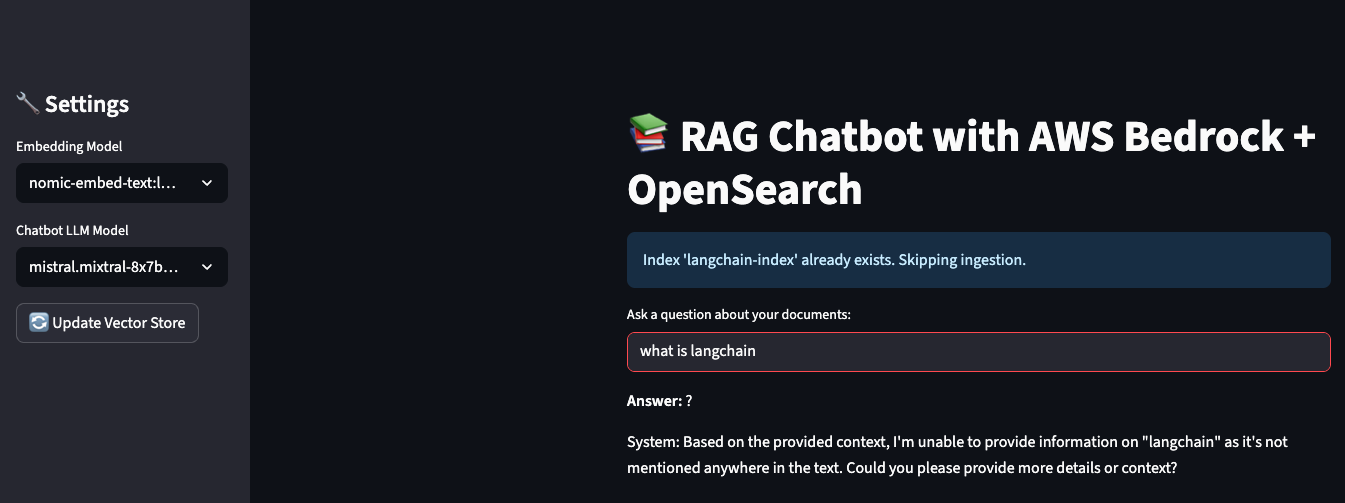
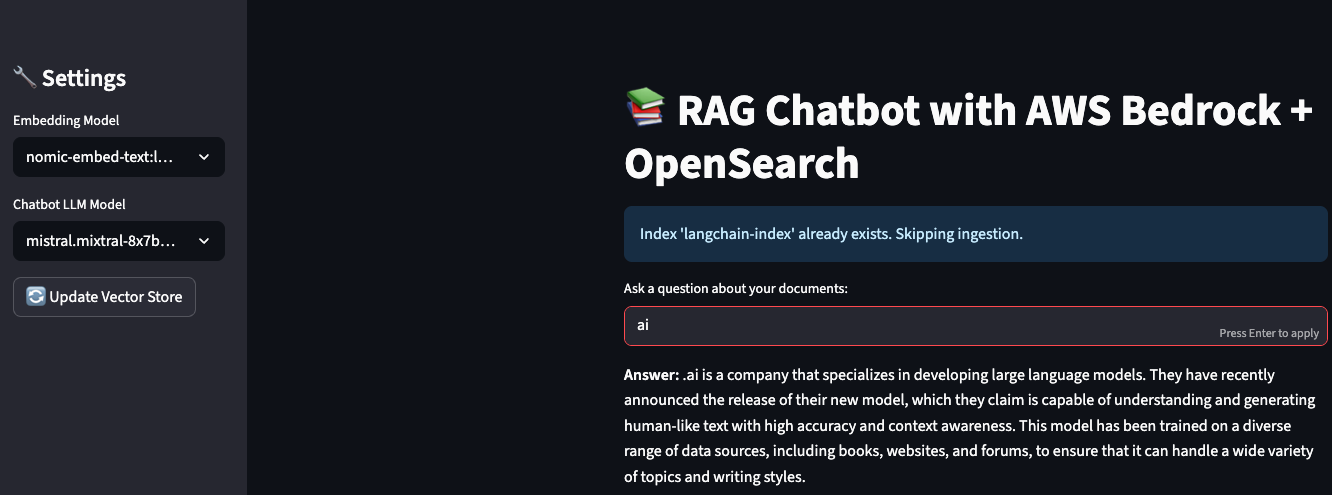
update reame.md, add new models into streamlit, change chat model to misteral

Changed region(s): [[0.4617, 0.1818, 1.0, 0.8182], [0.0, 0.1212, 0.1847, 0.6667], [0.4617, 0.8485, 0.985, 1.0]]

diff --git a/utils/Populate.py b/utils/Populate.py
@@ -9,6 +9,7 @@ class OpensearchManager:
     """
     A class to manage the OpenSearch client connection and vector operations.
     """
+
     def __init__(self, embedding_dim=768):
         load_dotenv()
         self._index_name = os.getenv("OPENSEARCH-INDEX-NAME")
@@ -18,23 +19,21 @@ class OpensearchManager:
     def create_index_if_not_exists(self, index_name):
         if not self._client.indices.exists(index=index_name):
             index_body = {
-                "settings": {
-                    "index": {
-                        "knn": True
-                    }
-                },
+                "settings": {"index": {"knn": True}},
                 "mappings": {
                     "properties": {
                         "text": {"type": "text"},
                         "vector_field": {
                             "type": "knn_vector",
                             "dimension": self._embedding_dimension,
-                        }
+                        },
                     }
-                }
+                },
             }
             self._client.indices.create(index=index_name, body=index_body)
-            print(f"Index '{index_name}' created with dimension {self._embedding_dimension}.")
+            print(
+                f"Index '{index_name}' created with dimension {self._embedding_dimension}."
+            )
         else:
             print(f"Index '{index_name}' already exists.")
 
@@ -42,30 +41,39 @@ class OpensearchManager:
         for doc in documents:
             try:
                 if not doc.page_content.strip():
-                    print(f"[SKIP] Empty content in document: {doc.metadata.get('source')}")
+                    print(
+                        f"[SKIP] Empty content in document: {doc.metadata.get('source')}"
+                    )
                     continue
 
                 embedding_vector = embedding_model.embed_query(doc.page_content)
 
                 if embedding_vector is None:
-                    print(f"[SKIP] Embedding returned None for document: {doc.metadata.get('source')}")
+                    print(
+                        f"[SKIP] Embedding returned None for document: {doc.metadata.get('source')}"
+                    )
                     continue
 
-                if not isinstance(embedding_vector, list) or not all(isinstance(x, (float, int)) for x in embedding_vector):
-                    print(f"[SKIP] Invalid embedding format for document: {doc.metadata.get('source')}")
+                if not isinstance(embedding_vector, list) or not all(
+                    isinstance(x, (float, int)) for x in embedding_vector
+                ):
+                    print(
+                        f"[SKIP] Invalid embedding format for document: {doc.metadata.get('source')}"
+                    )
                     continue
 
                 if len(embedding_vector) != self._embedding_dimension:
-                    print(f"[SKIP] Embedding dimension mismatch ({len(embedding_vector)}) for document: {doc.metadata.get('source')}")
+                    print(
+                        f"[SKIP] Embedding dimension mismatch ({len(embedding_vector)}) for document: {doc.metadata.get('source')}"
+                    )
                     continue
 
                 doc_id = str(uuid.uuid4())
-                doc_body = {
-                    "text": doc.page_content,
-                    "embedding": embedding_vector
-                }
+                doc_body = {"text": doc.page_content, "embedding": embedding_vector}
                 self._client.index(index=self._index_name, id=doc_id, body=doc_body)
-                print(f"[OK] Indexed document: {doc.metadata.get('source')} with ID: {doc_id}")
+                print(
+                    f"[OK] Indexed document: {doc.metadata.get('source')} with ID: {doc_id}"
+                )
 
             except Exception as e:
                 print(f"[ERROR] Failed to embed or index document: {e}")

diff --git a/backend/core.py b/backend/core.py
@@ -28,12 +28,16 @@ class Chatbot:
         """Initialize and return the chatbot response."""
         chat = BedrockLLM().get_llm()
         if not chat or not self._embedding_model:
-            raise RuntimeError("Failed to initialize LLM due to missing chat model or embedding index.")
+            raise RuntimeError(
+                "Failed to initialize LLM due to missing chat model or embedding index."
+            )
 
         try:
             # Check if index exists
             if not self.index_exists():
-                raise RuntimeError(f"Index '{self._index_name}' does not exist. Please ingest documents first.")
+                raise RuntimeError(
+                    f"Index '{self._index_name}' does not exist. Please ingest documents first."
+                )
 
             # Set up vectorstore and retriever
 
@@ -42,23 +46,26 @@ class Chatbot:
                 index_name=self._index_name,
                 embedding_function=self._embedding_model,
                 vector_field="embedding",
-                field_map={"vector": "embedding"} 
+                field_map={"vector": "embedding"},
             )
-
 
             doc_search = vectorstore.as_retriever()
 
             # Load prompt and build chain
             retrival_qa_chat_prompt = hub.pull("langchain-ai/retrieval-qa-chat")
-            stuff_docs_chain = create_stuff_documents_chain(chat, retrival_qa_chat_prompt)
-            qa = create_retrieval_chain(retriever=doc_search, combine_docs_chain=stuff_docs_chain)
+            stuff_docs_chain = create_stuff_documents_chain(
+                chat, retrival_qa_chat_prompt
+            )
+            qa = create_retrieval_chain(
+                retriever=doc_search, combine_docs_chain=stuff_docs_chain
+            )
 
             # Run query
             result = qa.invoke({"input": query})
             full_results = {
                 "query": result["input"],
                 "result": result["answer"],
-                "source_documents": result["context"]
+                "source_documents": result["context"],
             }
             return full_results
 

diff --git a/utils/opensearch.py b/utils/opensearch.py
@@ -16,7 +16,13 @@ class OpensearchClient:
         self._opensearch_password = os.getenv("OPENSEARCH-PASSWORD")
 
         print("Initializing OpenSearch client...")
-        if not all([self._opensearch_host, self._opensearch_username, self._opensearch_password]):
+        if not all(
+            [
+                self._opensearch_host,
+                self._opensearch_username,
+                self._opensearch_password,
+            ]
+        ):
             raise ValueError("Missing OpenSearch configuration in .env")
 
         self.client = OpenSearch(
@@ -25,7 +31,7 @@ class OpensearchClient:
             use_ssl=True,
             verify_certs=True,
             ssl_show_warn=False,
-            connection_class=RequestsHttpConnection
+            connection_class=RequestsHttpConnection,
         )
         # Check if the index exists
         if self.client.indices.exists(index=self._index_name):
@@ -36,10 +42,11 @@ class OpensearchClient:
                 self.client.indices.delete(index=self._index_name)
                 print(f"Index '{self._index_name}' was empty and has been deleted.")
             else:
-                print(f"Index '{self._index_name}' exists and contains {doc_count} documents. Skipping deletion.")
+                print(
+                    f"Index '{self._index_name}' exists and contains {doc_count} documents. Skipping deletion."
+                )
         else:
             print(f"Index '{self._index_name}' does not exist.")
-
 
         # Test the connection
         try:
@@ -48,5 +55,3 @@ class OpensearchClient:
             # print(info)
         except Exception as e:
             print("Connection failed:", e)
-
-

diff --git a/model/Bedrock.py b/model/Bedrock.py
@@ -4,13 +4,14 @@ from langchain_aws import BedrockLLM as LangchainBedrock
 from langchain_aws import ChatBedrockConverse
 from dotenv import load_dotenv
 
+
 class BedrockLLM:
     def __init__(self):
         load_dotenv()
         self._model = os.getenv("AWS_LLM_MODEL")
         self._access_key = os.getenv("AWS_ACCESS_KEY_ID")
         self._secret_key = os.getenv("AWS_SECRET_ACCESS_KEY")
-        self._session_token = os.getenv("AWS_SESSION_TOKEN") 
+        self._session_token = os.getenv("AWS_SESSION_TOKEN")
         self._region = os.getenv("AWS_REGION", "eu-west-1")
 
     def get_llm(self):
@@ -30,10 +31,11 @@ class BedrockLLM:
 
             print("Bedrock model is selected.")
             print(f"Using Bedrock model: {self._model}")
-            return  LangchainBedrock(
-                    model_id=self._model,
-                    client=bedrock_client,
-                )
+            return LangchainBedrock(
+                model_id=self._model,
+                client=bedrock_client,
+                temperature=0,
+            )
 
         except Exception as e:
             raise RuntimeError(f"Failed to initialize Bedrock LLM: {e}")

diff --git a/chatbot.py b/chatbot.py
@@ -14,8 +14,12 @@ st.sidebar.title("🔧 Settings")
 # Embedding model selector
 embedding_model = st.sidebar.selectbox(
     "Embedding Model",
-    options=["nomic-embed-text:latest", "other-model-1", "other-model-2"],
-    index=0
+    options=[
+        "nomic-embed-text:latest", 
+        "mxbai-embed-large:latest", 
+        "bge-m3:latest"
+    ],
+    index=0,
 )
 
 # Chatbot model selector
@@ -24,9 +28,9 @@ chatbot_model = st.sidebar.selectbox(
     options=[
         "mistral.mixtral-8x7b-instruct-v0:1",
         "amazon.titan-text-lite-v1",
-        "amazon.titan-text-express-v1"  # this one supports system messages
+        "amazon.titan-text-express-v1",  # this one supports system messages
     ],
-    index=0
+    index=0,
 )
 
 
